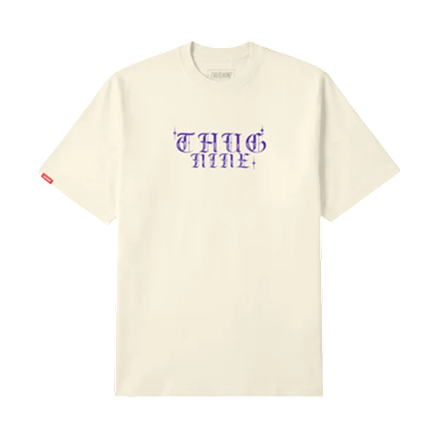
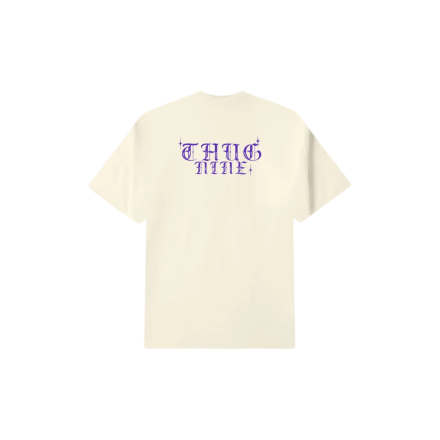
feat(drops):add drops-grid and product cards

Changed region(s): [[0.0888, 0.0888, 0.918, 0.918], [0.385, 0.2961, 0.6219, 0.4146]]

diff --git a/style/drops.css b/style/drops.css
@@ -6,6 +6,13 @@
     --verde:#222315;
     --branco:#ffffff;
     --branco-hover:#bbbbbb;
+    --cinza-claro:#F7F7F7;
+    --black-skull:#0E0B13;
+    --creme:#EEE8D6;
+    --gothic-green:#002504;
+    --amarelo:#E7D03C;
+    --marrom:#5e392f;
+    --azul:#1C2340;
     --scale:1;
 }
 
@@ -21,7 +28,6 @@
 
 body{
     margin: 0;
-    background-size: cover;
 }
 
 
@@ -30,4 +36,201 @@ main{
     align-items: center;
     justify-content: center;
     flex: 1;
+    font-family: 'Montserrat', sans-serif;
+}
+
+.product-grid{
+    margin-top: 50px;
+    display: grid;
+    grid-template-columns: 1fr 1fr 1fr 1fr;
+    gap: 20px;
+}
+
+.product-card{
+    display: flex;
+    flex-direction: column;
+    justify-content: center;
+    text-align: center;
+    height: 520px;
+    width: 420px;
+    margin-right: 20px;
+    color: var(--laranja);
+    background-color: var(--cinza-claro);
+    border-radius: 10px;
+    transition: linear 70ms;
+    text-decoration: none;
+    overflow: hidden;
+}
+
+.product-image{
+    position: relative;
+    width: 100%;
+    height: 300px;
+}
+
+.product-card img{
+    position: absolute;
+    top: 20px;
+    left: 0px;
+    width: 100%;    
+    height: 100%;
+    transform: scale(1.3);
+    object-fit: cover;
+}
+
+.back-img{
+    opacity: 0;
+}
+
+.product-card:hover .back-img{
+    opacity: 1;
+}
+
+.product-name{
+    width: 60%;
+    margin: 40px auto 3px;
+    font-weight: 700;
+    font-size: 15px;
+}
+
+.product-price{
+    width: 20%;
+    margin: 5px auto;
+    font-weight: 500;
+}
+.colors{
+    margin: 10px auto;
+    width: 10%;
+}
+.product-color{
+    display: inline-block;
+    border: 1px solid var(--branco-hover);
+    width: 30px;
+    height: 30px;
+    border-radius: 50%;
+    box-shadow: inset 0 0 0 2px var(--branco);
+}
+
+#oversized-skull{
+    background-color: var(--black-skull);
+}
+
+#oversized-purple{
+    background-color: var(--creme);
+}
+
+#oversized-gothic{
+    background-color: var(--gothic-green);
+}
+
+.product-card .product-image .gothic{
+    object-fit: contain;
+    transform: scale(1.25);
+}
+
+.product-card .product-image .bone-five{
+    transform: scale(0.9);
+}
+
+.product-card:hover .bone-five{
+    opacity: 0;
+}
+
+.product-card .product-image .bone-five-costas{
+    transform: scale(0.9);
+}
+
+.product-card:hover .bone-five-costas{
+    opacity: 1;
+}
+
+#bone-five{
+    background-color: var(--black-skull);
+}
+
+#brasil-legacy{
+    background-color: var(--amarelo);
+}
+
+.product-card .product-image .brasil-legacy{
+    object-fit: contain;
+    transform: scale(1.25);
+}
+
+.product-card .product-image .brasil-legacy-costas{
+    object-fit: contain;
+    transform: scale(1.25);
+}
+
+.product-card .brasil-legacy-costas{
+    opacity: 0;
+}
+
+.product-card:hover .brasil-legacy{
+    opacity: 0;
+}
+
+.product-card:hover .brasil-legacy-costas{
+    opacity: 1;
+}
+
+#gothic-puff{
+    background-color: var(--marrom);
+}
+
+.product-card .product-image .gothic-puff{
+    object-fit: contain;
+    transform: scale(1.3);
+}
+
+.product-card .product-image .gothic-puff-costas{
+    object-fit: contain;
+    transform: scale(1.3);
+}
+
+.product-card .gothic-puff-costas{
+    opacity: 0;
+}
+
+.product-card:hover .gothic-puff{
+    opacity: 0;
+}
+
+.product-card:hover .gothic-puff-costas{
+    opacity: 1;
+}
+
+
+#gothic-puff{
+    background-color: var(--marrom);
+}
+
+.product-card .product-image .beach-short{
+    object-fit: contain;
+    transform: scale(1.3);
+}
+
+#beach-short{
+    background-color: var(--black-skull);
+}
+
+.product-card .product-image .explorer-short, .product-card .product-image .explorer-short-costas{
+    object-fit: contain;
+    transform: scale(1.3);
+}
+
+#explorer-short{
+    background-color: var(--azul);
+}
+
+.product-card .explorer-short-costas{
+    opacity: 0;
+}
+
+.product-card:hover .explorer-short{
+    opacity: 0;
+}
+
+.product-card:hover .explorer-costas{
+    opacity: 1;
 }

diff --git a/code/drops.html b/code/drops.html
@@ -23,7 +23,96 @@
     </header>
 
     <main>
-
+        <div class="product-grid">
+            <a class="product-card" href="">
+                <div class="product-image">
+                    <img src="../images/products/camisa-skull.png" class="default-img" alt="camisa-skull">
+                    <img src="../images/products/camisa-skull-costas.png" class="back-img" alt="camisa-skull">
+                </div>
+                <p class="product-name">CAMISETA OVERSIZED SKULL</p>
+                <p class="product-price">R$ 299,99</p>
+                <div class="colors">
+                    <span class="product-color" id="oversized-skull"></span>
+                </div>
+            </a>
+            <a class="product-card" href="">
+                <div class="product-image">
+                    <img src="../images/products/camisa-purple.png" class="default-img" alt="camisa-purple">
+                    <img src="../images/products/camisa-purple-costas.png" class="back-img" alt="camisa-purple">
+                </div>
+                <p class="product-name">CAMISETA OVERSIZED PURPLE</p>
+                <p class="product-price">R$ 299,99</p>
+                <div class="colors">
+                    <span class="product-color" id="oversized-purple"></span>
+                </div>
+            </a>
+             <a class="product-card" href="">
+                <div class="product-image">
+                    <img src="../images/products/camisa-gothic.png" class="default-img gothic" alt="camisa-gothic">
+                    <img src="../images/products/camisa-gothic-costas.png" class="back-img gothic" alt="camisa-gothic">
+                </div>
+                <p class="product-name">CAMISETA OVERSIZED GOTHIC</p>
+                <p class="product-price">R$ 239,99</p>
+                <div class="colors">
+                    <span class="product-color" id="oversized-gothic"></span>
+                </div>
+            </a>
+             <a class="product-card" href="">
+                <div class="product-image">
+                    <img src="../images/products/bone-five.png" class="default-img bone-five" alt="bone-five">
+                    <img src="../images/products/bone-five-costas.png" class="back-img bone-five-costas" alt="bone-five">
+                </div>
+                <p class="product-name">BONÉ FIVE PANEL ARC</p>
+                <p class="product-price">R$ 209,99</p>
+                <div class="colors">
+                    <span class="product-color" id="bone-five"></span>
+                </div>
+            </a>
+             <a class="product-card" href="">
+                <div class="product-image">
+                    <img src="../images/products/brasil-legacy.png" class="default-img brasil-legacy" alt="brasil-legacy">
+                    <img src="../images/products/brasil-legacy-costas.png" class="back-img brasil-legacy-costas" alt="brasil-legacy">
+                </div>
+                <p class="product-name">CAMISETA BRASIL LEGACY</p>
+                <p class="product-price">R$ 399,99</p>
+                <div class="colors">
+                    <span class="product-color" id="brasil-legacy"></span>
+                </div>
+            </a>
+             <a class="product-card" href="">
+                <div class="product-image">
+                    <img src="../images/products/gothic-puff.png" class="default-img gothic-puff" alt="gothic-puff">
+                    <img src="../images/products/gothic-puff-costas.png" class="back-img gothic-puff-costas" alt="gothic-puff">
+                </div>
+                <p class="product-name">MOLETOM GOTHIC PUFF</p>
+                <p class="product-price">R$ 499,99</p>
+                <div class="colors">
+                    <span class="product-color" id="gothic-puff"></span>
+                </div>
+            </a>
+             <a class="product-card" href="">
+                <div class="product-image">
+                    <img src="../images/products/beach-short.png" class="default-img beach-short" alt="beach-short">
+                    <img src="../images/products/beach-short-costas.png" class="back-img beach-short" alt="beach-short">
+                </div>
+                <p class="product-name">BEACH SHORT</p>
+                <p class="product-price">R$ 299,99</p>
+                <div class="colors">
+                    <span class="product-color" id="beach-short"></span>
+                </div>
+            </a>
+             <a class="product-card" href="">
+                <div class="product-image">
+                    <img src="../images/products/explorer-short.png" class="default-img explorer-short" alt="explorer-short">
+                    <img src="../images/products/explorer-short-costas.png" class="back-img explorer-short-costas" alt="explorer-short">
+                </div>
+                <p class="product-name">SHORT EXPLORER</p>
+                <p class="product-price">R$ 369,99</p>
+                <div class="colors">
+                    <span class="product-color" id="explorer-short"></span>
+                </div>
+            </a>
+        </div>
     </main>
     
     <footer>
@@ -41,8 +130,8 @@
         <h3 class="contrast">DEPARTAMENTOS</h3>
         <ul>
             <li><a href="">HOME</a></li>
-            <li><a href="">DROPS</a></li>
-            <li><a href="">CONTATO</a></li>
+            <li><a href="../code/drops.html">DROPS</a></li>
+            <li><a href="../code/contact.html">CONTATO</a></li>
             <li><a href="">DOCS</a></li>
             <li><a href="">NEWS</a></li>
         </ul>

diff --git a/code/register.html b/code/register.html
@@ -153,7 +153,7 @@
         <h3 class="contrast">DEPARTAMENTOS</h3>
         <ul>
             <li><a href="">HOME</a></li>
-            <li><a href="">DROPS</a></li>
+            <li><a href="../code/drops.html">DROPS</a></li>
             <li><a href="../code/contact.html">CONTATO</a></li>
             <li><a href="">DOCS</a></li>
             <li><a href="">NEWS</a></li>